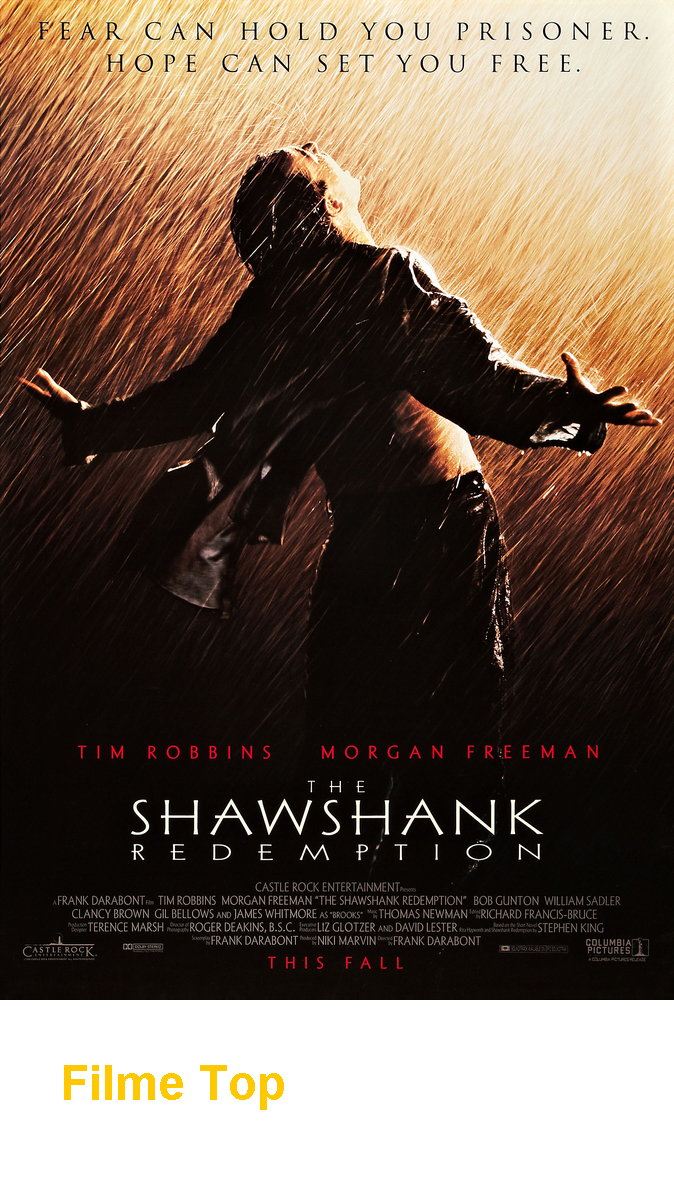
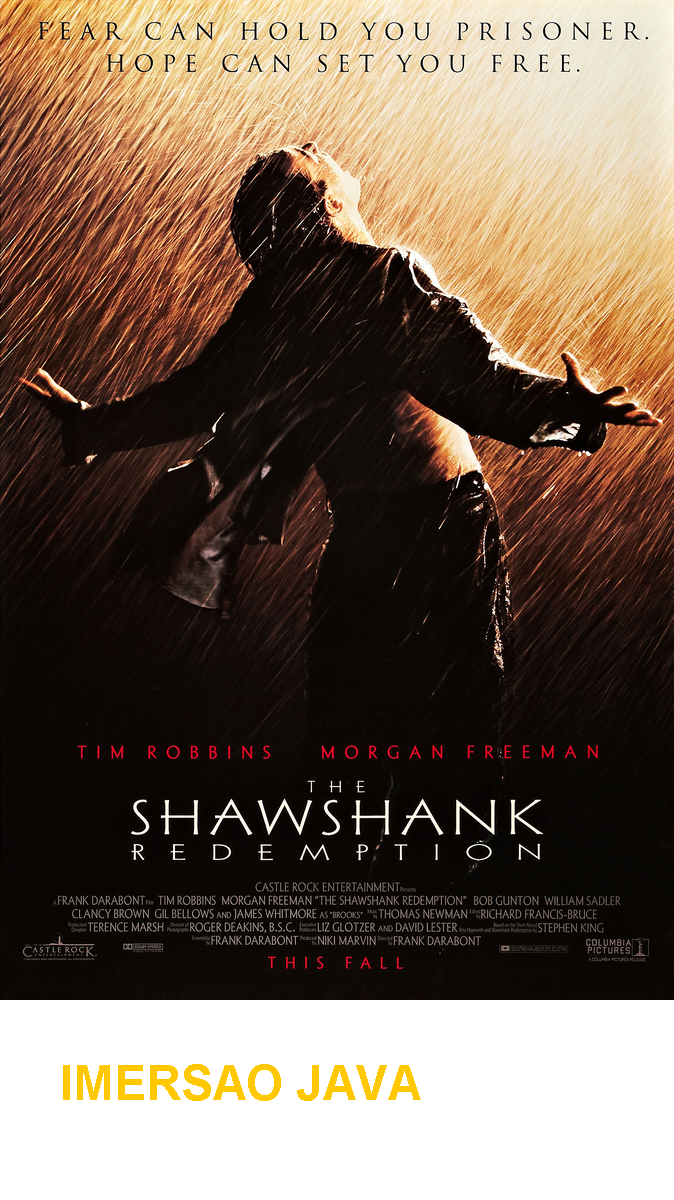
comecando desafios aula02

Changed region(s): [[0.0935, 0.8633, 0.6231, 0.925]]

diff --git a/src/App.java b/src/App.java
@@ -1,4 +1,6 @@
+import java.io.InputStream;
 import java.net.URI;
+import java.net.URL;
 import java.net.http.HttpClient;
 import java.net.http.HttpRequest;
 import java.net.http.HttpResponse;
@@ -32,9 +34,24 @@ public class App {
             switch (aux) {
                 case 1:
                     for (Map<String,String> filme : listaDeFilmes) {
+
+                    /* Input do usuario para o enereco da imagem na qual ele quer fazer a figurinha
+                        Scanner reader = new Scanner(System.in);
+                        System.out.println("Digite o endereco da imagem: ");
+                        reader.close();
+                    */
+                        String enderecoImagem = filme.get("image");
+                        String titulo = filme.get("title");
+
+                        String nomeArquivo = "images/" + titulo + ".png";
+                        InputStream inputStream = new URL(enderecoImagem).openStream(); // Classe InputStream ler uma fonte de bytes (file, url, byteArray...)
                         System.out.println("Titulo: \u001b[1m" + filme.get("title") + "\u001b[0m");
                         System.out.println("Poster: \u001b[4m"+ filme.get("image") + "\u001b[0m");
                         System.out.println("Nota: " + filme.get("imDbRating"));
+
+                        var geradora = new GeradorDeStickers();
+                        geradora.cria(inputStream, nomeArquivo);
+
                         System.out.println();
                     }
                     break;

diff --git a/src/GeradorDeStickers.java b/src/GeradorDeStickers.java
@@ -5,7 +5,7 @@ import java.awt.image.BufferedImage;
 import java.io.File;
 import java.io.InputStream;
 import javax.imageio.ImageIO;
-import java.util.Scanner;
+//import java.util.Scanner;
 
 public class GeradorDeStickers {
 
@@ -30,11 +30,13 @@ public class GeradorDeStickers {
         graphics.setColor(Color.ORANGE);
 
         // Escrever algo na nova imagem
-        Scanner reader = new Scanner(System.in);
-        System.out.println("Digite a mensagem da imagem: ");
-        String image = reader.nextLine();
-        graphics.drawString(image, 60, novaAltura - 100); // Criiar mensagem com input do usuario
-        reader.close();
+        /* Input do usuario para cada mensagem
+            Scanner reader = new Scanner(System.in);
+            System.out.println("Digite a mensagem da imagem: ");
+            String image = reader.nextLine();
+
+         */
+        graphics.drawString("IMERSAO JAVA", 60, novaAltura - 100); // Criiar mensagem com input do usuario
 
         // Escrever a imagem nova em um arquivo
         ImageIO.write(novaImagem, "png", new File(nomeArquivo));

diff --git a/README.md b/README.md
@@ -13,7 +13,12 @@
 # Descrição o projeto
 Projeto desenvolvido durante a imersão Java - Alura.
 
-# Aula 01
+## APIs usadas
+* (https://api.mocki.io/v2/549a5d8b/Top250Movies)
+* (https://api.mocki.io/v2/549a5d8b/MostPopularMovies)
+* (https://api.mocki.io/v2/549a5d8b/MostPopularTVs)
+* (https://api.mocki.io/v2/549a5d8b/Top250TVs)
+<!-- # Aula 01
 Durante a aula 01 foi contruido uma aplicação para consumir a API do IMDb e exibir os filmes mais populares, destacando seus pôsteres e visualizando sua classificação.
 ## Desafios
   1. [ ] 1. Consumir o endpoint de filmes mais populares da API do IMDB. Procure também, na documentação da API do IMDB, o endpoint que retorna as melhores séries e o que retorna as séries mais populares.
@@ -28,11 +33,31 @@ Durante a aula 01 foi contruido uma aplicação para consumir a API do IMDb e ex
 * Artigo: [README](https://www.alura.com.br/artigos/escrever-bom-readme).
 * Artigo: [O que é json](https://www.alura.com.br/artigos/o-que-e-json).
 * Artigo: [Cores no terminal](https://www.alura.com.br/artigos/decorando-terminal-cores-emojis).
-* Artigo: [VS Code para Java](https://www.alura.com.br/artigos/desenvolvendo-aplicacoes-java-vs-code).
+* Artigo: [VS Code para Java](https://www.alura.com.br/artigos/desenvolvendo-aplicacoes-java-vs-code). -->
 
 # Aula 02
+Na segunda aula foi criado um gerador de figurinhas explorando outras bibliotecas nativas do Java
+
 ## Desafios
+  1. [ ] 1. Ler a documentação da classe abstrata InputStream.
+  2. [ ] 2. Centralizar o texto na figurinha.
+  3. [x] 3. Fazer um pacote no Whatsapp e/ou Telegram com as suas próprias figurinhas!
+  4. [x] Criar diretório de saída das imagens, se ainda não existir.
+  5. [ ] Colocar outra fonte como a Comic Sans ou a Impact, a fonte usada em memes.
+  6. [ ] Colocar uma imagem de você que está fazendo esse curso sorrindo, fazendo joinha!
+  7. [ ] Colocar contorno (outline) no texto da imagem.
+  8. [ ] Tratar as imagens retornadas pela API do IMDB para pegar uma imagem maior ao invés dos thumbnails. Opções: pegar a URL da imagem e remover o trecho mostrado durante a aula ou consumir o endpoint de posters da API do IMDB (mais trabalhoso), tratando o JSON retornado.
+  9. [ ] Fazer com que o texto da figurinha seja personalizado de acordo com as classificações do IMDB.
+  10. [ ] **Desafio supremo:** usar alguma biblioteca de manipulação de imagens como [OpenCV](https://github.com/opencv-java) pra extrair imagem principal e contorná-la.
 
 ## Links
 
-# Projeto finalizao
+* Documentação do [pacote javax.imageio](https://docs.oracle.com/en/java/javase/17/docs/api/java.desktop/javax/imageio/package-summary.html), que trata de leitura e escrita de imagens.
+* Documentação da [classe BufferedImage](https://docs.oracle.com/en/java/javase/17/docs/api/java.desktop/java/awt/image/BufferedImage.html), que representa uma imagem no Java
+* Documentação da classe [Graphics2D](https://docs.oracle.com/en/java/javase/17/docs/api/java.desktop/java/awt/Graphics2D.html), a “caneta” que permite escrever, desenhar e imprimir outras imagens em uma imagem original.
+* Documentação da [abstração InputStream](https://docs.oracle.com/en/java/javase/17/docs/api/java.base/java/io/InputStream.html), que representa um fluxo de leitura de dados de qualquer fonte, como arquivos, URLs, entre outros.
+* [Java Polimorfismo: entenda herança e interfaces](https://www.alura.com.br/conteudo/java-heranca-interfaces-polimorfismo).
+* Apêndice da apostila [Java e Orientação a Objetos](https://www.alura.com.br/apostila-java-orientacao-objetos/apendice-pacote-java-io) da Alura sobre o pacote java.io que explica com mais detalhes a abstração InputStream.
+
+# Projeto finalizado
+
